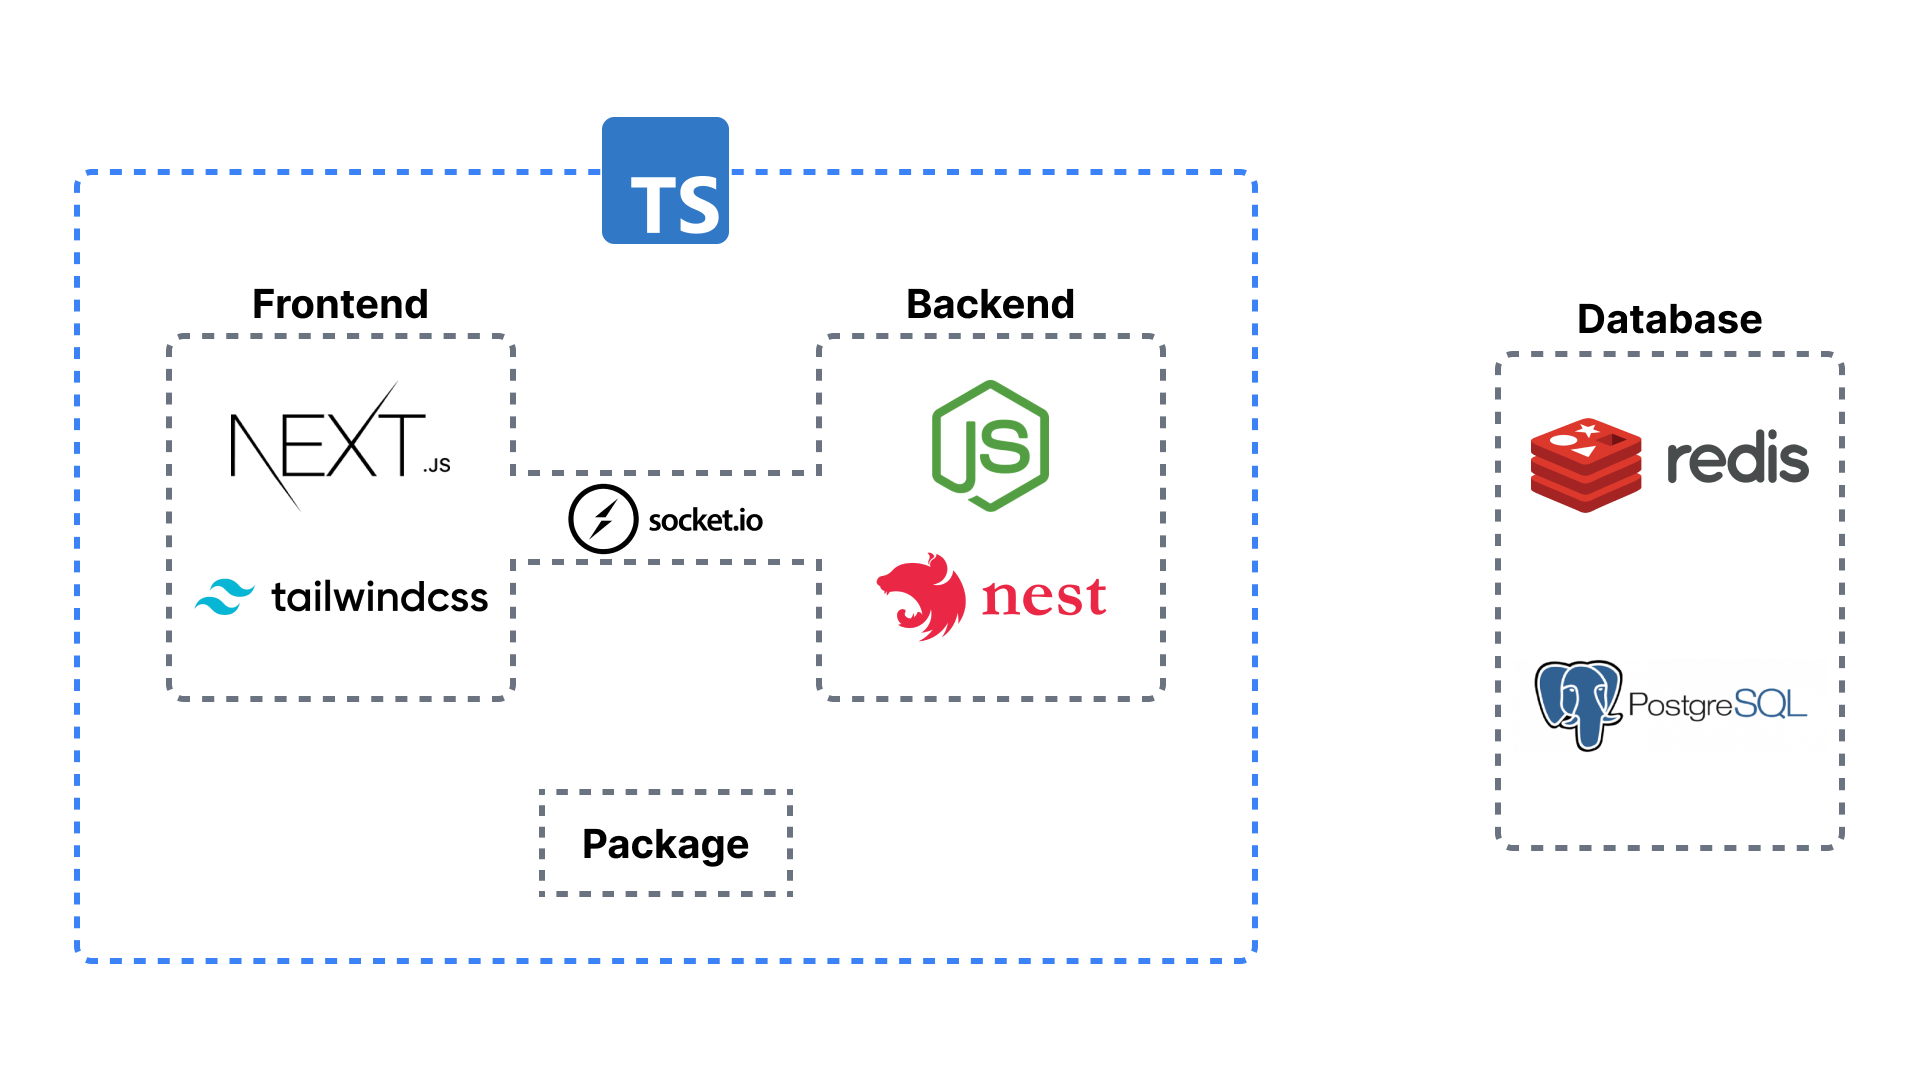
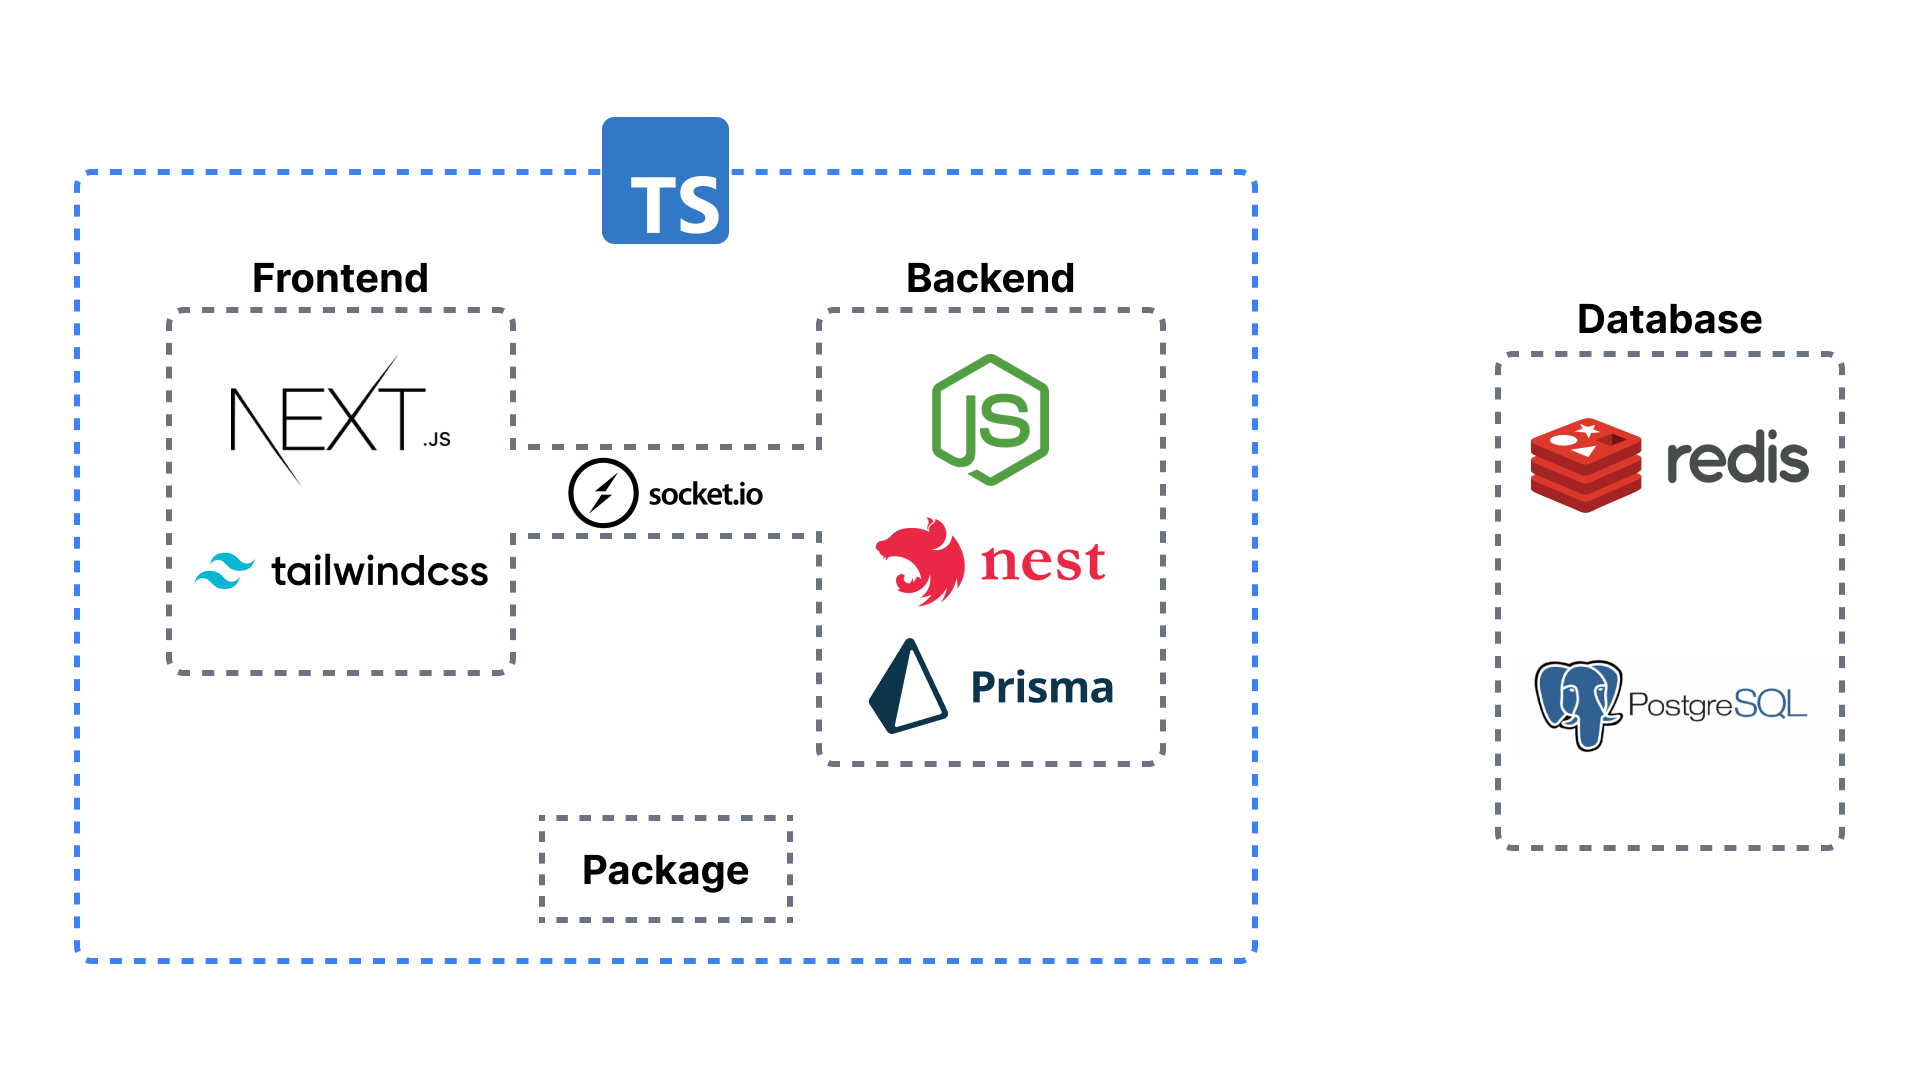
feat: more work

diff --git a/style.css b/style.css
@@ -15,3 +15,8 @@
 .homepage footer {
   padding: 0 3.5rem 2.5rem 3.5rem;
 }
+
+.backend h1 + p {
+  margin-top: 1.5rem;
+  opacity: 1 !important;
+}

diff --git a/slides.md b/slides.md
@@ -31,6 +31,7 @@ layout: two-cols
 # Sommaire
 
 <br>
+<br>
 
 - Contexte
 - Problèmes à résoudre
@@ -40,7 +41,7 @@ layout: two-cols
 
 ::right::
 
-<img src="/undraw_Random_thoughts.png" class="mt-10"/>
+<img src="/undraw_Random_thoughts.png" class="mt-16"/>
 
 ---
 layout: cover
@@ -268,9 +269,10 @@ Pour limiter la fréquence d'ajout de pixels
 
 <br>
 
-**Problème**
+**Problèmes**
 
 * Risque de collisions
+* Possibilité de bots (générée côté client)
 
 ::right::
 
@@ -283,22 +285,80 @@ Même si connexion via Google ou autre réseau
 
 Problème de collisions car librairire free (env 60% d'accuracy), sur un petit dataset aucune collision trouvée (10-20 personnes).
 Problème si collision: temps d'attente partagé
+Bot: envoyer une fingerprint différente / random à chaque requête
 
 Solution: on verra plus tard dans la conclusions
 -->
 
---- 
+---
+layout: two-cols
+---
 
 # Frontend
 
-TODO
+<br>
+
+**Next.js**
+
+* Canvas HTML5
+* Connexion WebSockets avec Socket.IO
+* Stockage de l'état dans un state global
+* PinchZoom du canvas
+* Mode affichage
+
+<br>
+
+**Design**
+* Utilisation de TailwindCSS
 
 
---- 
+
+::right::
+
+<img src="/screenshot-app.png" class="w-50 absolute right-22 -top-8"/>
+<img src="/appendix/display-mode-config.png" class="w-90 absolute right-0 mt-65"/>
+
+<!--
+State global: Zustand
+
+TailwindCSS: utilitaire de classes CSS (design system)
+Pas bcp de design à faire donc tout custom
+-->
+
+---
+layout: two-cols
+class: backend
+---
 
 # Backend
 
-TODO
+**Nest.js**
+
+* Architecture DDD
+* ORM Prisma (PostgreSQL)
+* Configuration par variables d'environnement
+
+
+**Administration**
+
+* Endpoints HTTP protégés
+* Stratégie d'API Key
+* Actions:
+  * Read only
+  * Remise à zéro de la toile
+  * Recouvrir une zone de pixels
+
+::right::
+
+<img src="/backend-architecture.png" class="w-64 absolute right-10 mt-20"/>
+
+<!---
+DDD: Domain Driven Design, découpage par domaine
+ORM: Object Relational Mapping, permet de manipuler la base de données comme des objets
+
+Config: env var avant le futur dashboard
+Exs: taille du canvas, couleurs, nombre de pixels que l'utilisateur peut poser, etc.
+-->
 
 ---
 layout: two-cols 
@@ -338,11 +398,13 @@ Base de données SQL pas encore utilisée, que pour l'historique de tous les pix
 Pour de futures statistiques, j'en parlerai dans les perspectives futures
 -->
 
----
+<!-- TODO: voir si un slide sur le package est nécessaire ici -->
+
+<!-- ---
 
 # Déploiement
 
-TODO
+TODO -->
 
 ---
 layout: two-cols 
@@ -434,16 +496,69 @@ background: baleinev-2023.png
 
 
 ---
+layout: two-cols
+---
 
 # Conclusion technique
 
-TODO
+<br>
 
+**Objectifs**
+
+✅ Fonctionnalités _required_ et _essential_
+
+✅ Moitié des fonctionnalités _nice to have_
+
+✅ Fonctionnalités non prévues:  
+  <ul class="ml-5">
+    <li>Mode affichage plus poussé</li>
+    <li>Package pour partager le code</li>
+    <li>Historique dans la base de données SQL</li>
+  </ul>
+
+::right::
+
+<br>
+<br>
+<br>
+
+**Retour d'expérience**
+
+* Application fonctionnelle et déployée
+* Technologies bien choisies, aucun réel blocage
+* Optimisations concluantes, permet de tenir tous les festivaliers 🕺💃
+
+**Améliorations possibles**
+
+* Accessibilité de l'app:
+  * Tutoriel, textes informatifs
+  * Internationalisation
+* Tests unitaires et d'intégration
+
+---
+layout: two-cols
 ---
 
 # Conclusion personnelle
 
-TODO
+* Projet qui me tient à coeur
+* Bénéfices de réaliser un projet plus long et conséquent
+* Retours lors du Baleinev Festival 2023 encourageants
+
+**Organisationnel**
+
+* Travail seul sur un projet mais au sein d'une équipe 
+* Review du code bénéfique, permet d'améliorer la qualité
+* Bonnes pratiques du monde professionnel (daily meeting, sprint review, ...)
+
+::right::
+
+<img src="/beescreens-team.png" class="mt-20"/>
+
+<!--
+Chance d'avoir travaillé sur un projet qui me passionne, c'était un plaisir d'ajouter petits à petits des fonctionnalités.
+
+-->
 
 
 ---
@@ -466,6 +581,7 @@ layout: two-cols
 
 * Dashboard d'administration
 * Statistiques
+* Toile rectangulaire
 
 ::right::
 
